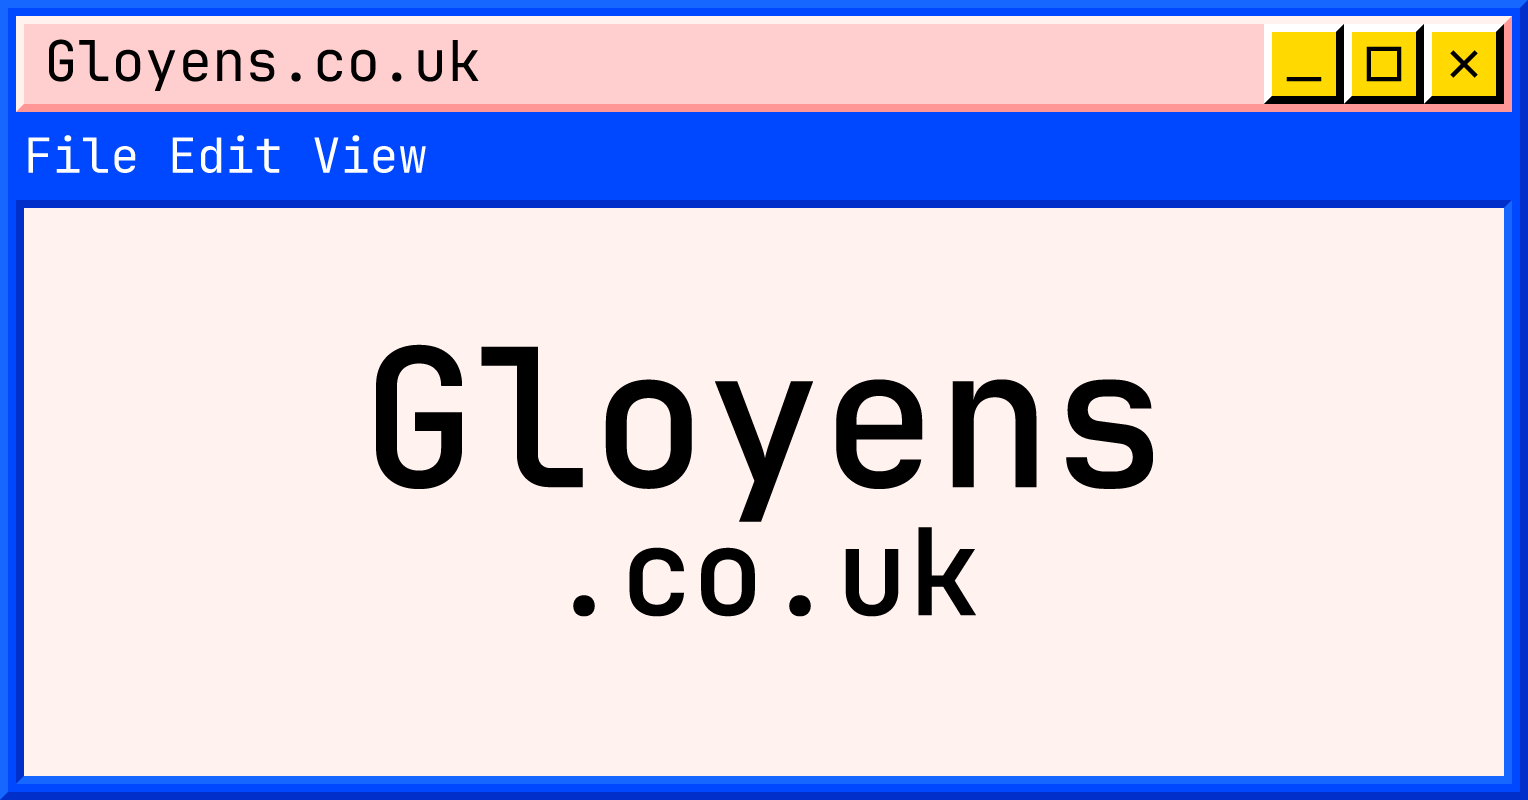
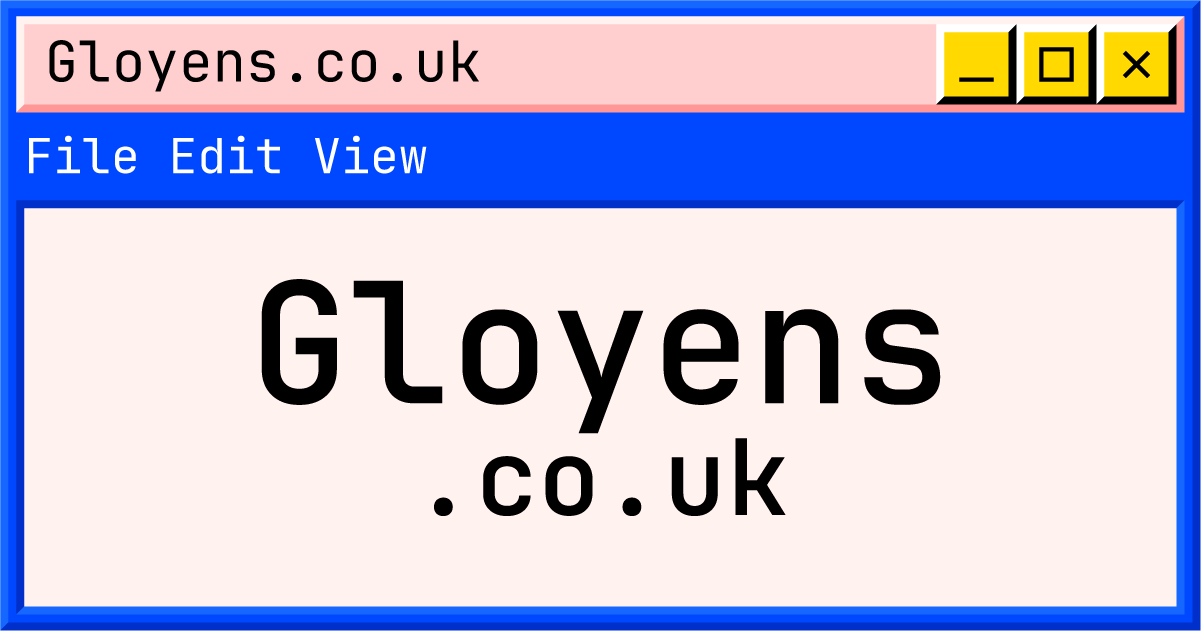
Update OG Image

Changed region(s): [[0.0, 0.0, 1.0, 1.0], [0.2157, 0.4216, 0.801, 0.813]]

diff --git a/src/app/pages/Code/index.tsx b/src/app/pages/Code/index.tsx
@@ -161,7 +161,7 @@ const Code = () => {
           <Project>
             <OGImageWrapper>
               <Image
-                src="/og-image.png"
+                src="/portfolio.png"
                 alt="Gloyens.co.uk promotional image"
                 fill
               />

diff --git a/src/app/layout.tsx b/src/app/layout.tsx
@@ -18,8 +18,8 @@ export const metadata: Metadata = {
     images: [
       {
         url: "https://www.gloyens.co.uk/og-image.png",
-        width: 1528,
-        height: 800,
+        width: 1200,
+        height: 630,
       },
     ],
     locale: "en_US",
